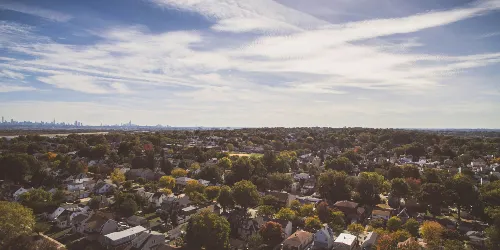
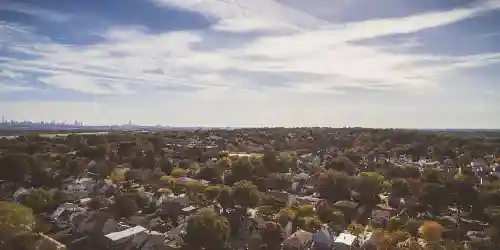
images bettered

diff --git a/chamber/discover.html b/chamber/discover.html
@@ -23,7 +23,7 @@
 <body id="discover">
     <header>
         <div>
-            <img class="Concord-logo" src="./images/GCCC-Logo-white.png" alt="Concord" >
+            <img class="Concord-logo" src="./images/GCCC-Logo-white.webp" alt="Concord" >
             <img class ="mountain-img" src="./images/Mountain-lg.webp" alt="Image Settings" loading="lazy">
         </div>
         <nav>
@@ -32,7 +32,7 @@
             <li><a class="button-design" href="../index.html">Home</a></li>
             <li><a class="button-design" href="">Directory</a></li>
             <li><a class="button-design" href="./discover.html">Discover</a></li>
-            <li><a class="button-design" href="./join.html">join</a></li>
+            <li><a class="button-design" href="./join.html">Join</a></li>
             </ul>
         </nav>
         </header>
@@ -111,7 +111,7 @@
     <footer>
         <div class="resources">
             <div>
-            <img src="./images/GCCC-Logo-stacked-white.png">
+            <img src="./images/GCCC-Logo-stacked-white.webp">
             </div>
         </div>
         <div class="foot-div">

diff --git a/chamber/styles/base.css b/chamber/styles/base.css
@@ -216,7 +216,7 @@ footer {
   font-weight: 800;
   min-height: 200px; /* Change to min-height to allow auto margin to work */
   background-color: #4D5057;
-  background-image: url(../images/forest-leaves.jpg);
+  background-image: url(../images/forest-leaves.webp);
   background-size: cover;
   background-position: center;
   background-repeat: no-repeat;

diff --git a/chamber/styles/larger.css b/chamber/styles/larger.css
@@ -53,7 +53,7 @@
         color: white;
         cursor: pointer;
         transition: transform 0.3s;
-        font-size: 30pt;
+        font-size: 20pt;
     
     }
     nav ul.menu-dirrectory li a.button-design:hover, nav ul.menu-dirrectory.open li a.button-design:hover {
